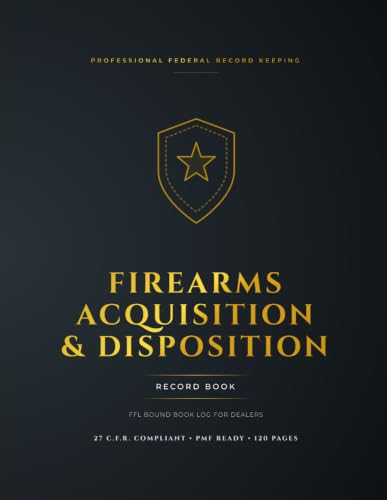
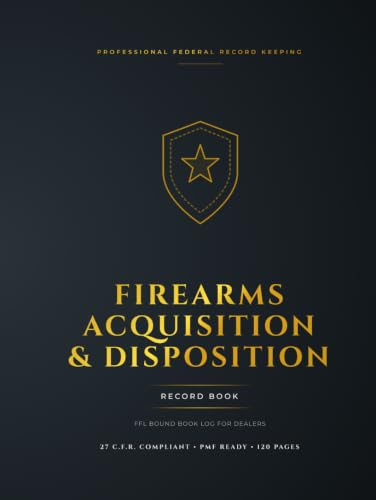
Switch comments to Disqus (shortname ffl, guest login); real ASINs (PB B0H6V4X481 / HC B0H6VSF6S6); real Amazon cover images; Payoneer checkout slot

Changed region(s): [[0.1463, 0.54, 0.8777, 0.9], [0.3803, 0.21, 0.6436, 0.45], [0.234, 0.09, 0.8191, 0.15]]

diff --git a/components/Comments.tsx b/components/Comments.tsx
@@ -3,47 +3,37 @@
 import { useEffect, useRef } from 'react';
 import { type Locale } from '@/src/i18n/settings';
 
-// Giscus — статик-френдли комментарии на базе GitHub Discussions.
-// Значения по умолчанию — твой репозиторий. Переопредели через
-// NEXT_PUBLIC_GISCUS_* при сборке, если нужно сменить.
-const DEFAULT_REPO = 'Eugene55555/ffl-acquisition-and-disposition-book';
-const DEFAULT_REPO_ID = 'R_kgDOTXuLwA';
-const DEFAULT_CATEGORY = 'Announcements';
-const DEFAULT_CATEGORY_ID = 'DIC_kwDOTXuLwM4DBMPA';
+// Disqus — универсальные комментарии (гостевой вход + Google/Facebook).
+// Задай NEXT_PUBLIC_DISQUS_SHORTNAME или захардкожь ниже.
+const SHORTNAME = process.env.NEXT_PUBLIC_DISQUS_SHORTNAME || 'ffl';
 
 export function Comments({ locale }: { locale: Locale }) {
   const ref = useRef<HTMLDivElement>(null);
-  const repo = process.env.NEXT_PUBLIC_GISCUS_REPO || DEFAULT_REPO;
-  const repoId = process.env.NEXT_PUBLIC_GISCUS_REPO_ID || DEFAULT_REPO_ID;
-  const category = process.env.NEXT_PUBLIC_GISCUS_CATEGORY || DEFAULT_CATEGORY;
-  const categoryId = process.env.NEXT_PUBLIC_GISCUS_CATEGORY_ID || DEFAULT_CATEGORY_ID;
 
   useEffect(() => {
-    if (!ref.current) return;
+    if (!SHORTNAME || !ref.current) return;
+    const w = window as unknown as {
+      disqus_config?: () => void;
+      DISQUS?: unknown;
+    };
+    w.disqus_config = function (this: { page: { identifier: string; url: string; language: string } }) {
+      this.page.identifier = window.location.pathname;
+      this.page.url = window.location.href;
+      this.page.language = locale;
+    };
     const s = document.createElement('script');
-    s.src = 'https://giscus.app/client.js';
+    s.src = `https://${SHORTNAME}.disqus.com/embed.js`;
     s.async = true;
-    s.crossOrigin = 'anonymous';
-    s.setAttribute('data-repo', repo);
-    s.setAttribute('data-repo-id', repoId);
-    s.setAttribute('data-category', category);
-    s.setAttribute('data-category-id', categoryId);
-    s.setAttribute('data-mapping', 'pathname');
-    s.setAttribute('data-strict', '0');
-    s.setAttribute('data-reactions-enabled', '1');
-    s.setAttribute('data-emit-metadata', '0');
-    s.setAttribute('data-input-position', 'bottom');
-    s.setAttribute('data-theme', 'preferred_color_scheme');
-    s.setAttribute('data-lang', locale);
-    s.setAttribute('data-loading', 'lazy');
+    s.setAttribute('data-timestamp', String(Date.now()));
     ref.current.appendChild(s);
-  }, [repo, repoId, category, categoryId, locale]);
+  }, [locale]);
 
+  if (!SHORTNAME) return null;
   return (
     <div className="mt-12">
-      <div ref={ref} />
+      <div id="disqus_thread" ref={ref} />
       <p className="mt-3 text-center text-xs text-gray-400 dark:text-gray-500">
-        Sign in with GitHub to comment.
+        Comments powered by Disqus.
       </p>
     </div>
   );

diff --git a/src/lib/products.ts b/src/lib/products.ts
@@ -11,7 +11,7 @@ export type Product = {
 // Checkout для прямой продажи на сайте (Stripe / Lemon Squeezy / Paddle и т.п.).
 // Задай NEXT_PUBLIC_CHECKOUT_URL при сборке, либо захардкожь ниже.
 export const CHECKOUT_URL =
-  process.env.NEXT_PUBLIC_CHECKOUT_URL || 'https://checkout.example.com/ffl';
+  process.env.NEXT_PUBLIC_CHECKOUT_URL || 'REPLACE_WITH_PAYONEER_CHECKOUT';
 
 // Добавь сюда товары — компонент BookCard отрисует их сам.
 export const PRODUCTS: Product[] = [
@@ -34,8 +34,8 @@ export const PRODUCTS: Product[] = [
     },
   },
   {
-    asin: 'HARDCOVER_ASIN',
-    amazonUrl: 'https://www.amazon.com/dp/HARDCOVER_ASIN',
+    asin: 'B0H6VSF6S6',
+    amazonUrl: 'https://www.amazon.com/dp/B0H6VSF6S6',
     price: '$24.99',
     cover: '/ffl-acquisition-and-disposition-book/images/ffl-book-cover-hc.jpg',
     format: 'hardcover',